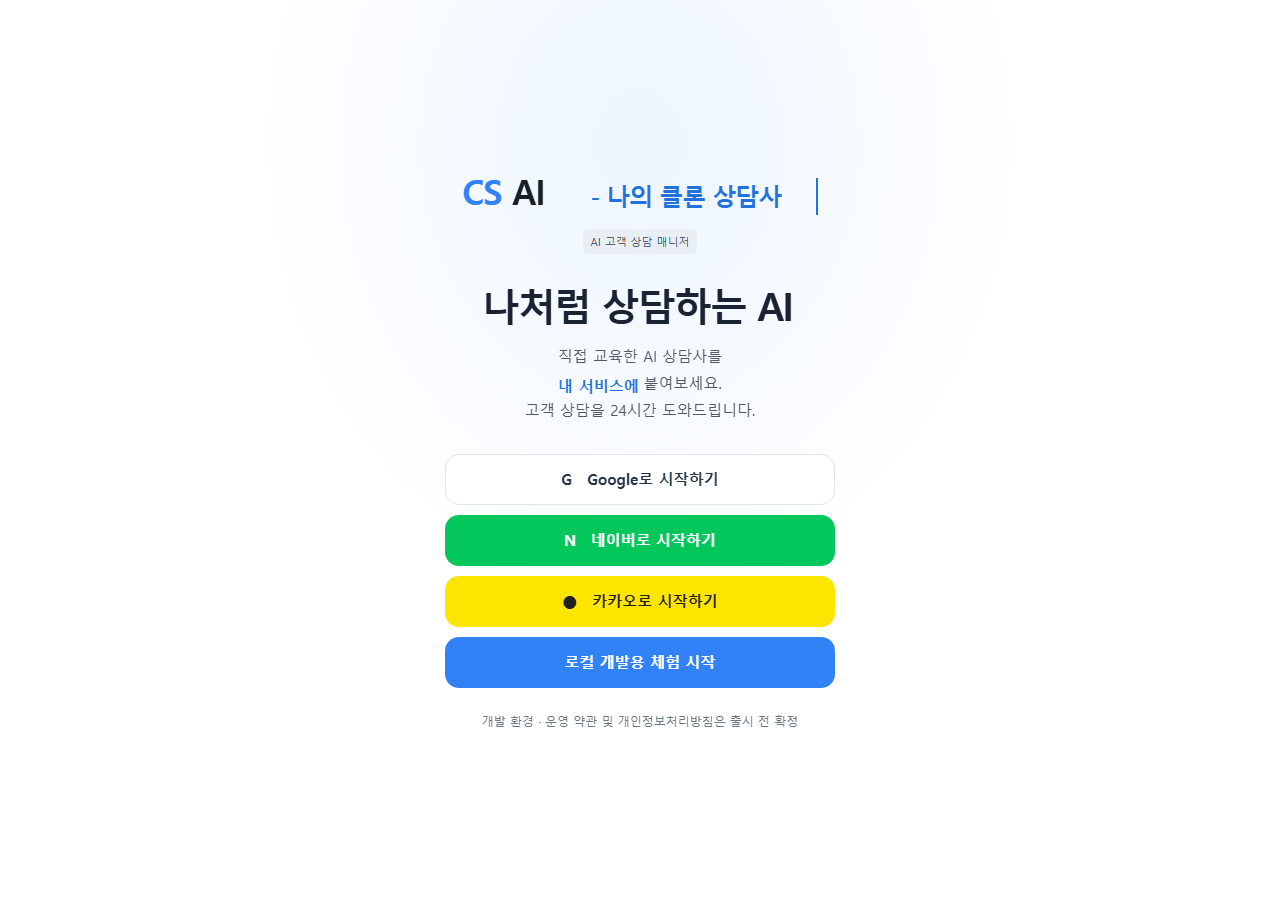
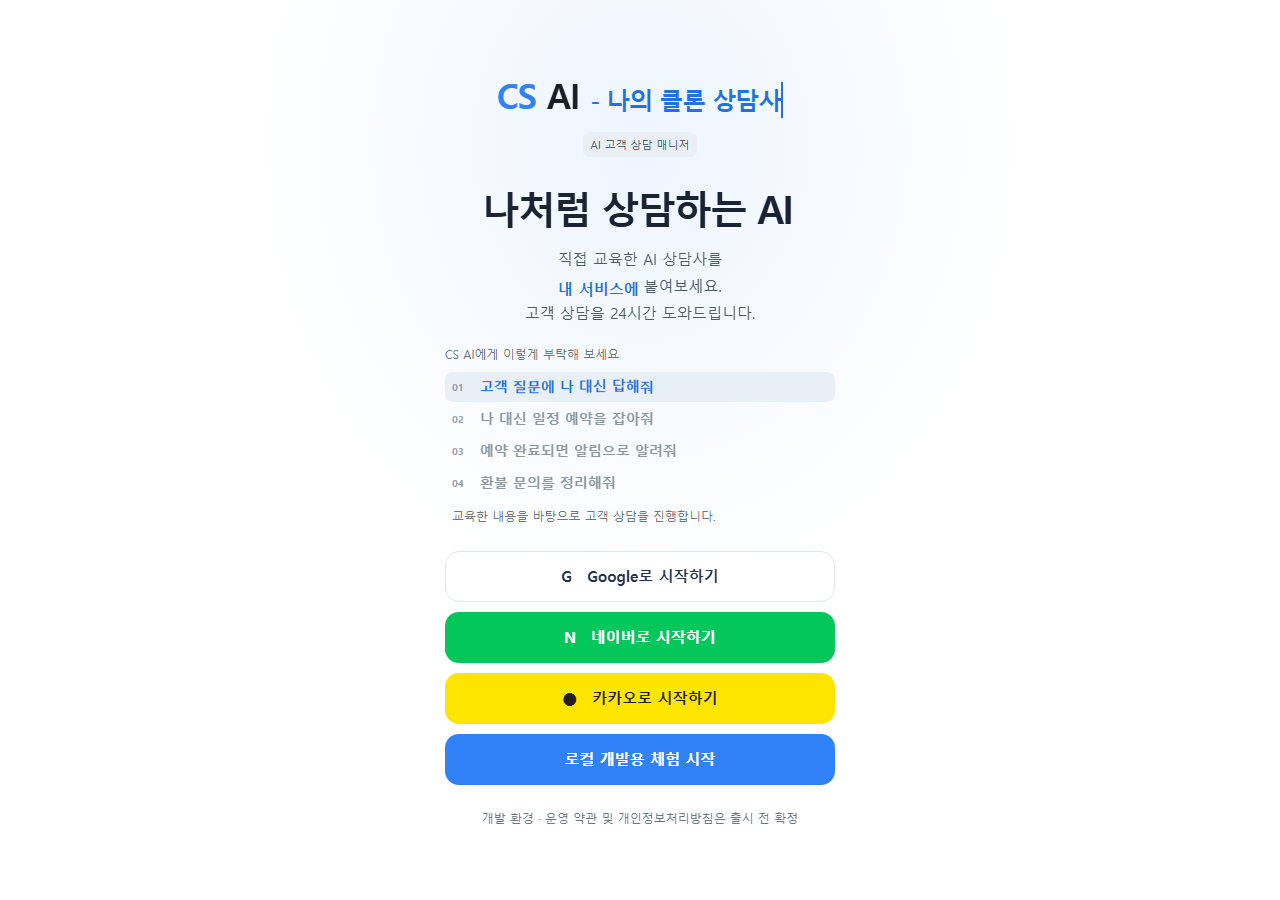
style: add rolling landing examples

Changed region(s): [[0.3438, 0.1556, 0.6562, 0.8711], [0.375, 0.9022, 0.625, 0.9333], [0.375, 0.0933, 0.625, 0.1244]]

diff --git a/web/roll-links.js b/web/roll-links.js
@@ -1,0 +1,65 @@
+// DesignBookmark Roll Links movement, adapted to CS AI's plain JavaScript UI.
+(() => {
+  const examples = [
+    ['고객 질문에 나 대신 답해줘', '교육한 내용을 바탕으로 고객 상담을 진행합니다.'],
+    ['나 대신 일정 예약을 잡아줘', '예약 요청을 받고 확인할 수 있습니다.'],
+    ['예약 완료되면 알림으로 알려줘', '예약 상태와 알림 설정을 한곳에서 관리합니다.'],
+    ['환불 문의를 정리해줘', '고객의 요청을 상담 기록과 업무로 정리합니다.'],
+  ];
+  const reduced = matchMedia('(prefers-reduced-motion: reduce)');
+  const spring = () => ({ x: 0, v: 0, t: 0, k: 380, c: 24 });
+  const step = (s, dt) => { const a = -s.k * (s.x - s.t) - s.c * s.v; s.v += a * dt; s.x += s.v * dt; };
+  let active = null;
+  function mount() {
+    const copy = document.querySelector('.hero-copy');
+    if (!copy || copy === active) return;
+    active = copy;
+    const section = document.createElement('section');
+    section.className = 'hero-examples';
+    section.innerHTML = '<p class="hero-examples-title">CS AI에게 이렇게 부탁해 보세요</p><div class="hero-examples-list"></div><p class="hero-examples-detail" aria-live="polite"></p>';
+    copy.after(section);
+    const list = section.querySelector('.hero-examples-list');
+    const detail = section.querySelector('.hero-examples-detail');
+    const links = examples.map(([label, description], index) => {
+      const button = document.createElement('button');
+      button.type = 'button'; button.className = 'hero-examples-link'; button.setAttribute('aria-label', label);
+      const num = document.createElement('span'); num.className = 'num'; num.textContent = String(index + 1).padStart(2, '0'); num.setAttribute('aria-hidden', 'true');
+      const letters = document.createElement('span'); letters.className = 'letters'; letters.setAttribute('aria-hidden', 'true');
+      const cells = [...label].map(ch => {
+        const shell = document.createElement('span'); shell.className = 'letter';
+        const inner = document.createElement('span'); inner.className = 'letter-inner';
+        for (let i = 0; i < 2; i++) { const glyph = document.createElement('i'); glyph.textContent = ch; inner.append(glyph); }
+        shell.append(inner); letters.append(shell);
+        return { inner, s: spring(), at: 0 };
+      });
+      button.append(num, letters); list.append(button);
+      const link = { button, cells, description, on: false };
+      button.addEventListener('pointerenter', () => { pointer = true; select(link); });
+      button.addEventListener('focus', () => select(link));
+      button.addEventListener('click', () => select(link));
+      return link;
+    });
+    let pointer = false, auto = 0, autoAt = performance.now() + 800, last = performance.now();
+    function select(link) {
+      const now = performance.now();
+      links.forEach(item => {
+        item.on = item === link;
+        item.button.classList.toggle('on', item.on);
+        item.cells.forEach((cell, i) => { cell.at = now + i * 30; cell.s.t = item.on ? 1 : 0; });
+      });
+      list.classList.add('hot'); detail.textContent = link.description;
+    }
+    list.addEventListener('pointerleave', () => { pointer = false; autoAt = performance.now() + 900; });
+    function frame(now) {
+      if (!section.isConnected) return;
+      const dt = Math.min((now - last) / 1000, 1 / 30); last = now;
+      if (!pointer && now >= autoAt) { select(links[auto]); auto = (auto + 1) % links.length; autoAt = now + 1450; }
+      if (!reduced.matches) for (let k = 0; k < 4; k++) links.forEach(link => link.cells.forEach(cell => { if (now >= cell.at) step(cell.s, dt / 4); }));
+      links.forEach(link => link.cells.forEach(cell => { cell.inner.style.transform = `translateY(${-cell.s.x * 50}%)`; }));
+      requestAnimationFrame(frame);
+    }
+    requestAnimationFrame(frame);
+  }
+  new MutationObserver(mount).observe(document.getElementById('app'), { childList: true });
+  mount();
+})();

diff --git a/web/style.css b/web/style.css
@@ -34,6 +34,19 @@ body{background:var(--canvas);color:var(--ink);line-height:1.55;font-family:syst
 .word-roll-word{position:absolute;left:0;top:0;display:flex;white-space:nowrap}
 .word-roll-char{display:inline-block;white-space:pre;will-change:transform,opacity}
 .word-roll:focus-visible{outline:2px solid #91bfff;outline-offset:2px;border-radius:4px}
+.hero-examples{display:grid;gap:4px;margin:-12px auto 24px;text-align:left;max-width:390px}
+.hero-examples-title{font-size:12px;color:#6b7684;margin:0 0 4px}
+.hero-examples-list{display:grid;gap:2px}
+.hero-examples-link{display:flex;align-items:center;gap:9px;width:100%;min-height:30px;padding:3px 7px;text-align:left;background:transparent;border-radius:8px;font-size:14px;font-weight:650;line-height:1.35;color:#192333;transition:color .22s ease,background .22s ease}
+.hero-examples-list.hot .hero-examples-link{color:#8b97a5}
+.hero-examples-list.hot .hero-examples-link.on{color:#2172dd;background:#f0f6ff}
+.hero-examples-link .num{font-size:10px;color:#98a4b2;min-width:19px}
+.hero-examples-link .letters{display:flex;white-space:pre}
+.hero-examples-link .letter{display:inline-block;height:1.35em;overflow:hidden;white-space:pre}
+.hero-examples-link .letter-inner{display:flex;flex-direction:column;will-change:transform}
+.hero-examples-link .letter-inner i{height:1.35em;font-style:normal}
+.hero-examples-detail{min-height:20px;margin:5px 7px 0;font-size:12px;color:#6b7684}
+@media(prefers-reduced-motion:reduce){.hero-examples-link .letter-inner{transform:none!important}}
 @media(prefers-reduced-motion:reduce){.word-roll-slot{width:auto!important}.word-roll-word:not(:last-child){display:none}}
 @keyframes brand-type{from{max-width:0}to{max-width:11em}}
 @keyframes brand-caret{50%{border-color:transparent}}

diff --git a/web/index.html b/web/index.html
@@ -1,1 +1,1 @@
-<!doctype html><html lang="ko"><head><meta charset="utf-8"><meta name="viewport" content="width=device-width,initial-scale=1"><title>CS AI · 나처럼 상담하는 AI</title><link rel="stylesheet" href="/assets/style.css"></head><body><div id="app" aria-live="polite"></div><script src="/assets/app.js" defer></script><script src="/assets/scramble.js" defer></script><script src="/assets/word-roll.js" defer></script></body></html>
+<!doctype html><html lang="ko"><head><meta charset="utf-8"><meta name="viewport" content="width=device-width,initial-scale=1"><title>CS AI · 나처럼 상담하는 AI</title><link rel="stylesheet" href="/assets/style.css"></head><body><div id="app" aria-live="polite"></div><script src="/assets/app.js" defer></script><script src="/assets/scramble.js" defer></script><script src="/assets/word-roll.js" defer></script><script src="/assets/roll-links.js" defer></script></body></html>

diff --git a/tests/browser_check.py b/tests/browser_check.py
@@ -11,7 +11,7 @@ from fastapi.testclient import TestClient
 from app import app
 from playwright.sync_api import sync_playwright
 owner=TestClient(app);visitor=TestClient(app);errors=[];screens=[]
-css=(ROOT/'web/style.css').read_text(encoding='utf-8');js=(ROOT/'web/app.js').read_text(encoding='utf-8');scramble=(ROOT/'web/scramble.js').read_text(encoding='utf-8');word_roll=(ROOT/'web/word-roll.js').read_text(encoding='utf-8')
+css=(ROOT/'web/style.css').read_text(encoding='utf-8');js=(ROOT/'web/app.js').read_text(encoding='utf-8');scramble=(ROOT/'web/scramble.js').read_text(encoding='utf-8');word_roll=(ROOT/'web/word-roll.js').read_text(encoding='utf-8');roll_links=(ROOT/'web/roll-links.js').read_text(encoding='utf-8')
 # The application's exact DOM/rendering code runs in Chromium; only HTTP transport and public path are test adapters.
 bridge='''const sessionStorage={data:{},getItem(k){return this.data[k]||null},setItem(k,v){this.data[k]=v},removeItem(k){delete this.data[k]}};const fetch=async(path,opts={})=>{let r=await py_api(String(path),opts.method||'GET',opts.body||null);return {ok:r.status>=200&&r.status<300,status:r.status,json:async()=>r.body}};'''
 def page_content(page,c,public_slug=None):
@@ -21,7 +21,7 @@ def page_content(page,c,public_slug=None):
     script=js.replace("publicMode=location.pathname.startsWith('/c/')||location.pathname.startsWith('/widget/'),slug=location.pathname.split('/')[2]",f'publicMode={str(bool(public_slug)).lower()},slug={json.dumps(public_slug)}')
     # about:blank is not a secure origin, so provide only a test UUID helper.
     prefix="if(!crypto.randomUUID)crypto.randomUUID=()=>Array.from(crypto.getRandomValues(new Uint8Array(16)),x=>x.toString(16).padStart(2,'0')).join('');"
-    page.set_content('<!doctype html><html lang="ko"><meta name="viewport" content="width=device-width,initial-scale=1"><style>'+css+'</style><div id="app"></div><script>'+prefix+bridge+script+'</script><script>'+scramble+'</script><script>'+word_roll+'</script></html>')
+    page.set_content('<!doctype html><html lang="ko"><meta name="viewport" content="width=device-width,initial-scale=1"><style>'+css+'</style><div id="app"></div><script>'+prefix+bridge+script+'</script><script>'+scramble+'</script><script>'+word_roll+'</script><script>'+roll_links+'</script></html>')
 def post(c,path,data,method='POST'):
     r=c.request(method,path,json=data);assert r.status_code==200,(path,r.status_code,r.text);return r.json()
 with sync_playwright() as pw:
@@ -33,7 +33,7 @@ with sync_playwright() as pw:
     def nav(h,title):
         pg.evaluate('(h)=>{location.hash=h;render()}',h);pg.get_by_role('heading',name=title,exact=True).wait_for(timeout=5000);pg.wait_for_timeout(100)
         assert not pg.get_by_role('heading',name='오류',exact=True).count(),pg.locator('main').inner_text()
-    pg.wait_for_timeout(500);print(pg.locator('body').inner_text(),errors,flush=True);pg.get_by_role('heading',name='나처럼 상담하는 AI').wait_for(timeout=5000);pg.locator('.word-roll').wait_for(timeout=5000);shot('01_home');owner.get('/auth/demo');pg.evaluate('async()=>{await refresh();location.hash="education";render()}');pg.get_by_role('heading',name='AI 교육시키기').wait_for(timeout=5000);shot('02_education')
+    pg.wait_for_timeout(500);print(pg.locator('body').inner_text(),errors,flush=True);pg.get_by_role('heading',name='나처럼 상담하는 AI').wait_for(timeout=5000);pg.locator('.word-roll').wait_for(timeout=5000);pg.locator('.hero-examples-link').first.click();assert pg.locator('.hero-examples-detail').inner_text()=='교육한 내용을 바탕으로 고객 상담을 진행합니다.';shot('01_home');owner.get('/auth/demo');pg.evaluate('async()=>{await refresh();location.hash="education";render()}');pg.get_by_role('heading',name='AI 교육시키기').wait_for(timeout=5000);shot('02_education')
     pg.locator('#training-text').fill('배송 기간? => 출고 후 2일입니다.');pg.get_by_role('button',name='교육 비용 확인').click();pg.get_by_role('button',name='비용 확인 및 교육 시작').click();pg.get_by_role('button',name='승인 및 상담에 반영').wait_for(timeout=5000);shot('03_training_review');pg.get_by_role('button',name='승인 및 상담에 반영').click();pg.get_by_text('반영 완료',exact=False).wait_for(timeout=5000)
     nav('test','AI 상담 테스트');pg.locator('#msg').fill('배송 기간?');pg.get_by_role('button',name='전송').click();pg.get_by_text('출고 후 2일입니다.',exact=True).wait_for(timeout=5000);shot('04_test_chat');pg.locator('#msg').fill('추가 질문');pg.get_by_role('button',name='전송').click();pg.get_by_role('heading',name='상담 이용 안내').wait_for(timeout=5000);shot('05_paywall');pg.get_by_role('button',name='요금제 보기',exact=True).click();pg.get_by_role('heading',name='요금제 및 결제').wait_for(timeout=5000);shot('06_pricing')
     post(owner,'/api/demo/billing',{'plan':'lite','addons':['auto_booking','change_booking','crm','quote','stats','export','widget']});post(owner,'/api/settings',{'brand':'테스트 스냅','fields':[{'key':'name','label':'고객명','type':'text','required':True},{'key':'location','label':'장소','type':'text','required':True}],'modes':{'booking':'auto'},'enabled':True,'notice':'공식 예약 안내','links':[{'name':'마이리얼트립','url':'https://www.myrealtrip.com/'}]},'PATCH');pg.evaluate('async()=>{await refresh();selectedPlan=me.plan;selectedAdd=new Set(me.addons);render()}')
